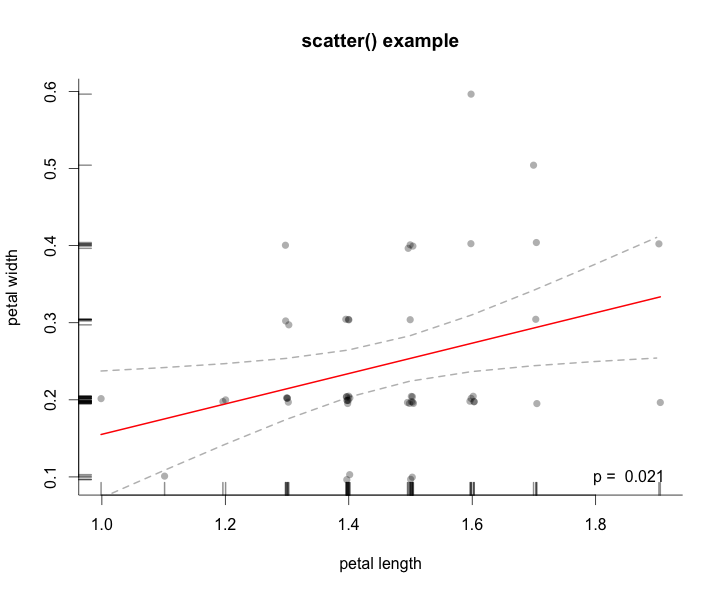
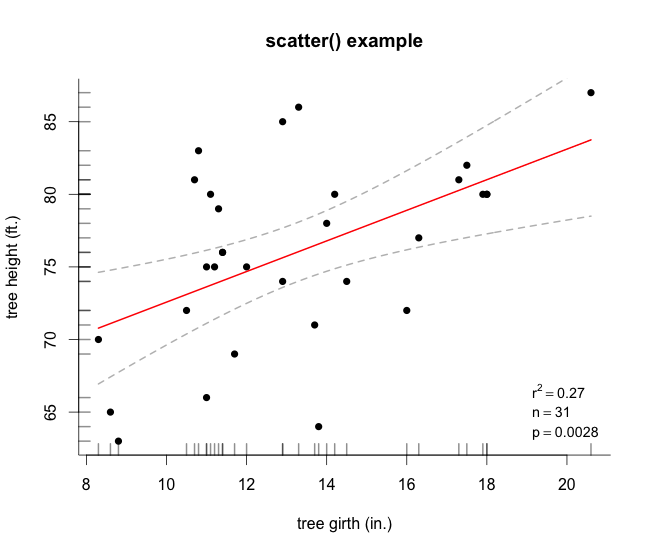
updated scatter include sample size and r squared values

diff --git a/README.md b/README.md
@@ -65,7 +65,9 @@ Modified box plot alone
 
 ### quantitative x quantitative data
 
-`scatter(iris %>% filter(Species=="setosa") %>% .$Petal.Length %>% jitter(.25), iris %>% filter(Species=="setosa") %>% .$Petal.Width %>% jitter(0.25),xlab="petal length",ylab="petal width",color="#00000050",main="scatter() example")`    
+Note here that the regression line does not extend beyond the range of the data; p-value, sample size, and r squared values are given clearly; and there is some measure of uncertainty about the slope (the confidence bands).
+
+`scatter(trees[,1],trees[,2],xlab="tree girth (in.)",ylab="tree height (ft.)",main="scatter() example")`    
 
 ![scatter](https://github.com/lukereding/graphics/raw/master/examplePlots/scatter.png)
 
